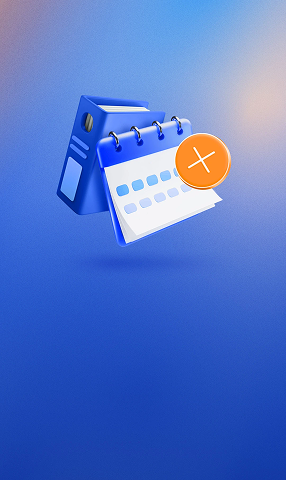
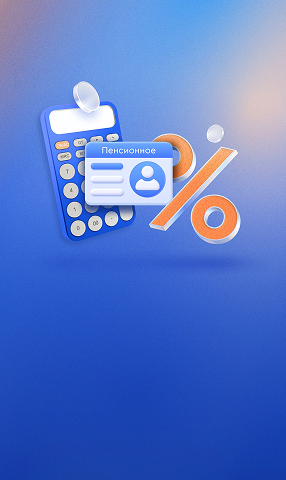
feat: finish

Changed region(s): [[0.1399, 0.1562, 0.8392, 0.5312]]

diff --git a/advice.html b/advice.html
@@ -40,90 +40,138 @@
     <div class="container">
       <h1 class="page-content__title">Советы от Газпромбанка</h1>
       <!-- Карточки -->
-      <div class="advice">
-        <ul class="advice-card">
-          <li class="advice-card__item advice-card__item--one">
+      <ul class="advice-card">
+          <li class="advice-card__item advice-card__item--first">
             <div class="advice-card__card-top">
-              <img src="images/img-card/pension.png" alt="Лого карточки">
+              <img class="advice-card__img" src="images/img-card/benefits.png" alt="Лого карточки">
+              <h2 class="advice-card__title">
+                Какие есть льготы
+              </h2>
             </div>
             <div class="advice-card__card-bottom">
-              <p>
-
+              <p class="advice-card__description">
+                Две льготы для пенсионеров, о&nbsp;которых нужно знать
               </p>
-              <a href="">
-
+              <a class="advice-card__link" href="#">
+                Подробнее
               </a>
             </div>
           </li>
-          <li class="advice-card__item advice-card__item--two">
+          <li class="advice-card__item advice-card__item--second">
             <div class="advice-card__card-top">
               <img src="images/img-card/rating.png" alt="Лого карточки">
+              <h2 class="advice-card__title">
+                Повышаем рейтинг
+              </h2>
             </div>
             <div class="advice-card__card-bottom">
-              <p>
-
+              <p class="advice-card__description">
+                Как получить высокий кредитный рейтинг
               </p>
-              <a href="">
-
+              <a class="advice-card__link" href="#">
+                Подробнее
               </a>
             </div>
           </li>
-          <li class="advice-card__item advice-card__item--three">
+          <li class="advice-card__item advice-card__item--third">
             <div class="advice-card__card-top">
               <img src="images/img-card/buy-ingots.png" alt="Лого карточки">
+              <h2 class="advice-card__title">
+                Покупаем слитки
+              </h2>
             </div>
             <div class="advice-card__card-bottom">
-              <p>
-
+              <p class="advice-card__description">
+                Зачем покупать золотые слитки
               </p>
-              <a href="">
-
+              <a class="advice-card__link" href="#">
+                Подробнее
               </a>
             </div>
           </li>
-          <li class="advice-card__item advice-card__item--fore">
-            <div class="advice-card__card-top">
-              <img src="images/img-card/transfer.png" alt="Лого карточки">
-            </div>
-            <div class="advice-card__card-bottom">
-              <p>
-
-              </p>
-              <a href="">
-
-              </a>
-            </div>
-          </li>
-          <li class="advice-card__item advice-card__item--five">
+          <li class="advice-card__item advice-card__item--fourth">
             <div class="advice-card__card-top">
               <img src="images/img-card/benefits.png" alt="Лого карточки">
+              <h2 class="advice-card__title">
+                Какие есть льготы
+              </h2>
             </div>
             <div class="advice-card__card-bottom">
-              <p>
-
+              <p class="advice-card__description">
+                Налоговый вычет при покупке квартиры
               </p>
-              <a href="">
-
+              <a class="advice-card__link" href="#">
+                Подробнее
               </a>
             </div>
           </li>
-          <li class="advice-card__item advice-card__item--six">
+          <li class="advice-card__item advice-card__item--fifth">
             <div class="advice-card__card-top">
-              <img src="images/img-card/balance.png" alt="Лого карточки">
+              <img src="images/img-card/transfer.png" alt="Лого карточки">
+              <h2 class="advice-card__title">
+                Переводы через СБП
+              </h2>
             </div>
             <div class="advice-card__card-bottom">
-              <p>
-
+              <p class="advice-card__description">
+                Как перевести деньги через СБП в&nbsp;интернет-банке
               </p>
-              <a href="">
-
+              <a class="advice-card__link" href="#">
+                Подробнее
+              </a>
+            </div>
+          </li>
+          <li class="advice-card__item advice-card__item--sixth">
+            <div class="advice-card__card-top">
+              <img src="images/img-card/benefits.png" alt="Лого карточки">
+              <h2 class="advice-card__title">
+                Какие есть льготы
+              </h2>
+            </div>
+            <div class="advice-card__card-bottom">
+              <p class="advice-card__description">
+                Право на&nbsp;увольнение без отработок
+              </p>
+              <a class="advice-card__link" href="#">
+                Подробнее
+              </a>
+            </div>
+          </li>
+          <li class="advice-card__item advice-card__item--seventh">
+            <div class="advice-card__card-top">
+              <img src="images/img-card/balance.png" alt="Лого карточки">
+              <h2 class="advice-card__title">
+                Как скрыть баланс
+              </h2>
+            </div>
+            <div class="advice-card__card-bottom">
+              <p class="advice-card__description">
+                Как скрыть свой баланс в&nbsp;интернет-банке
+              </p>
+              <a class="advice-card__link" href="#">
+                Подробнее
+              </a>
+            </div>
+          </li>
+          <li class="advice-card__item advice-card__item--eighth">
+            <div class="advice-card__card-top">
+              <img src="images/img-card/rating.png" alt="Лого карточки">
+              <h2 class="advice-card__title">
+                Повышаем рейтинг
+              </h2>
+            </div>
+            <div class="advice-card__card-bottom">
+              <p class="advice-card__description">
+                Следите за&nbsp;кредитной нагрузкой
+              </p>
+              <a class="advice-card__link" href="#">
+                Подробнее
               </a>
             </div>
           </li>
         </ul>
       </div>
     </div>
-  </div>
 </main>
 <footer class="footer">
   <div class="container">

diff --git a/css/blocks/advice-card.css b/css/blocks/advice-card.css
@@ -1,0 +1,87 @@
+.advice-card {
+    width: 100%;
+    min-height: 480px;
+    display: flex;
+    flex-wrap: wrap;
+    gap: 40px 32px;
+}
+
+.advice-card__item  {
+    min-height: 480px;
+    display: flex;
+    flex-direction: column;
+    justify-content: space-between;
+    width: calc((100% - 96px) / 4);
+    padding: 20px;
+    border-radius: 12px;
+    background-size: cover;        /* растягивает картинку */
+    background-position: center;   /* центрирует */
+    background-repeat: no-repeat;  /* не повторяет */
+}
+
+.advice-card__card-top {
+    display: flex;
+    gap: 12px;
+}
+
+.advice-card__title {
+    font-weight: 700;
+    font-size: 13px;
+    line-height: 16px;
+    color: #FFFFFF;
+}
+
+.advice-card__description {
+    font-weight: 700;
+    font-size: 20px;
+    line-height: 24px;
+    color: #ffffff;
+}
+
+
+.advice-card__item--first  {
+    background-image: url("../../images/img-card/Rectangle-pension.png");
+}
+
+.advice-card__item--second {
+    background-image: url("../../images/img-card/Rectangle-rating.png");
+}
+
+.advice-card__item--third  {
+    background-image: url("../../images/img-card/Rectangle-buy-ingots.png");
+}
+
+.advice-card__item--fourth {
+    background-image: url("../../images/img-card/Rectangle-tax-deduction.png");
+}
+
+.advice-card__item--fifth  {
+    background-image: url("../../images/img-card/Rectangle-transfer.png");
+}
+
+.advice-card__item--sixth  {
+    background-image: url("../../images/img-card/Rectangle-Right-to-dismissal.png");
+}
+
+.advice-card__item--seventh  {
+    background-image: url("../../images/img-card/Rectangle-hide-balance.png");
+}
+
+.advice-card__item--eighth {
+    background-image: url("../../images/img-card/Rectangle-credit-load.png");
+}
+
+
+.advice-card__link {
+    display: flex;
+    width: 100%;
+    padding: 14px;
+    justify-content: center;
+    color: #ffffff;
+    font-weight: 500;
+    font-size: 14px;
+    line-height: 20px;
+    background-color: #476BF0;
+    border-radius: 8px;
+}
+

diff --git a/css/style.css b/css/style.css
@@ -5,3 +5,4 @@
 @import "blocks/breadcrumbs.css";
 @import "blocks/page-content.css";
 @import "blocks/footer.css";
+@import "blocks/advice-card.css";

diff --git a/css/global/reboot.css b/css/global/reboot.css
@@ -32,4 +32,6 @@ a {
 
 ul {
   list-style: none;
+  padding: 0;
+  margin: 0;
 }
